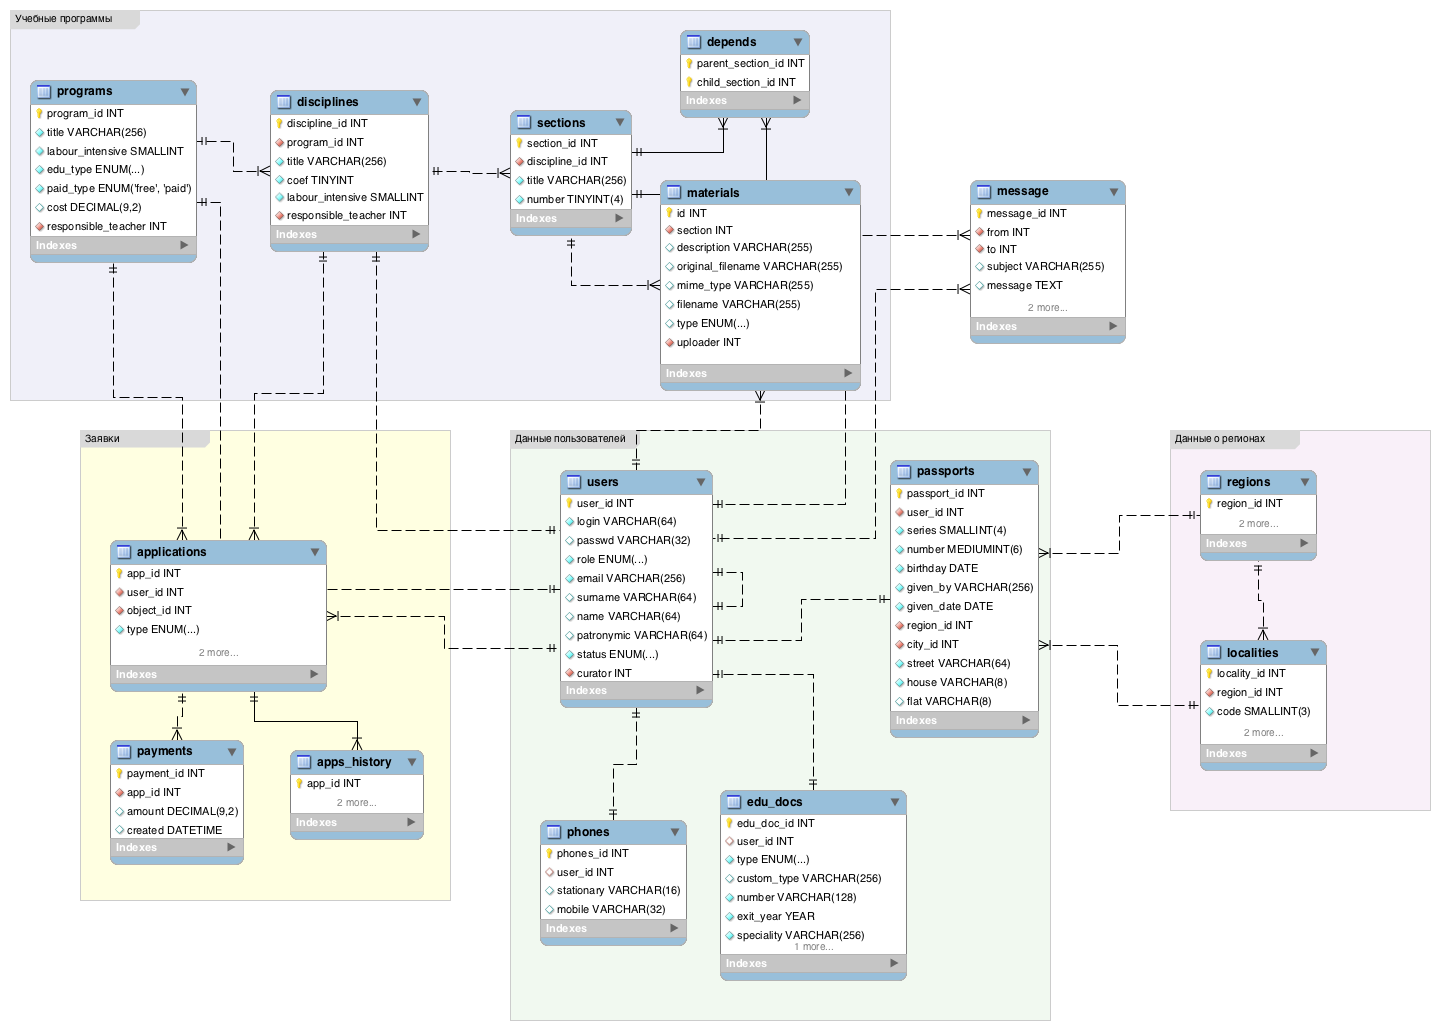
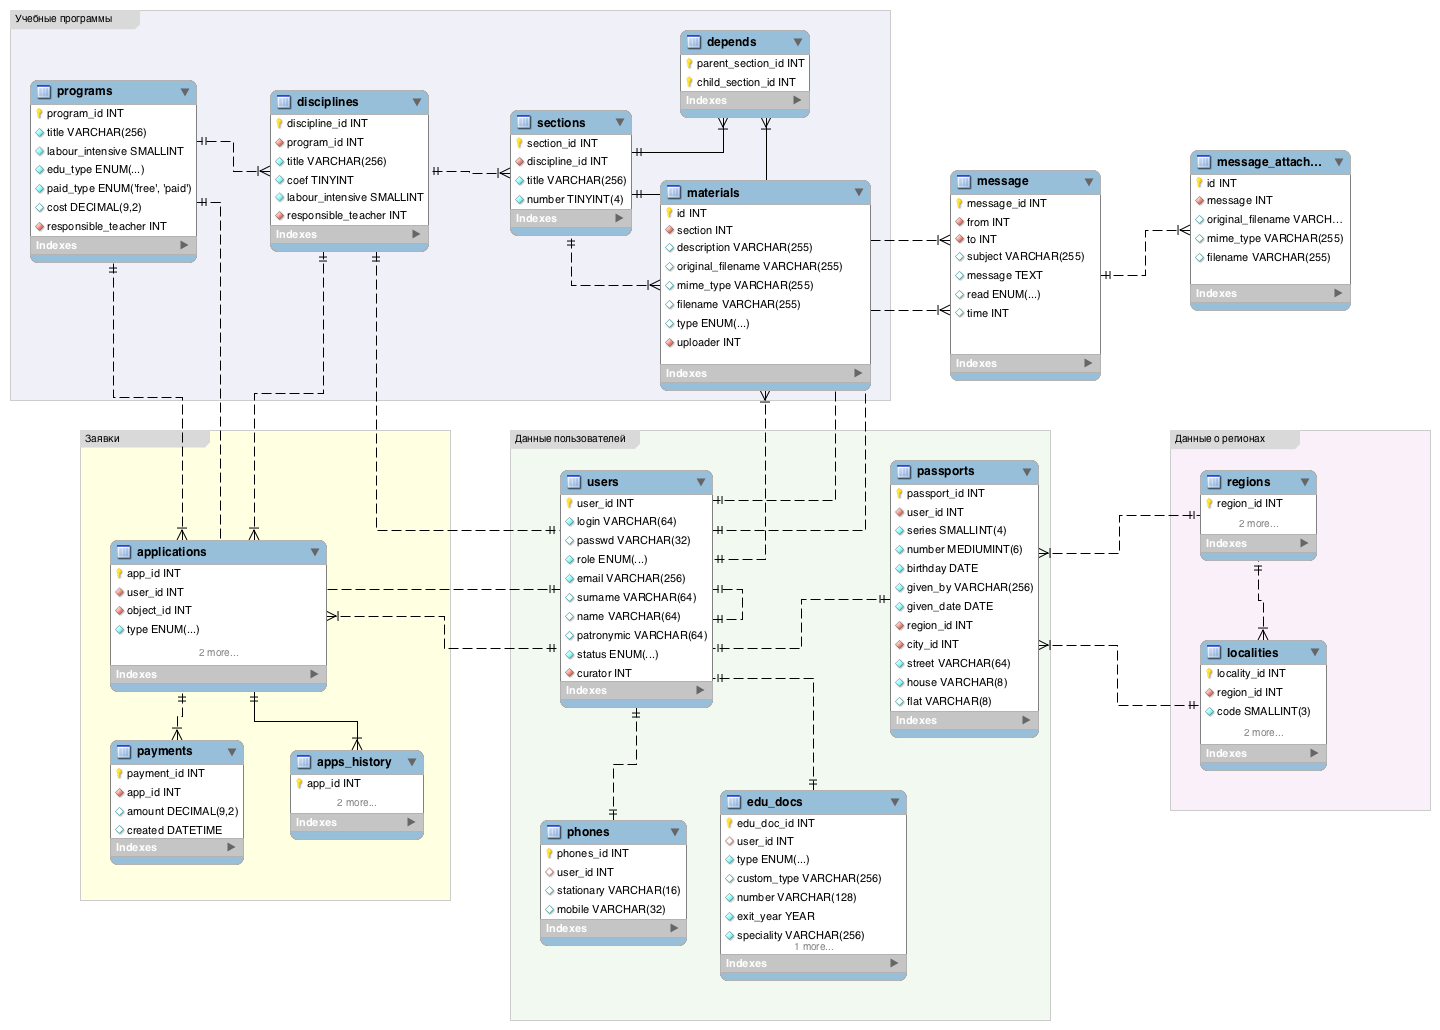
messages attachments
git-svn-id: http://subversion.assembla.com/svn/remote-edu/trunk@223 8be755f0-7b69-014b-b4a2-75d5e90fc6ab

diff --git a/private/app/Model/Messages.php b/private/app/Model/Messages.php
@@ -36,7 +36,13 @@
                 'message_id' => $messageId,
                 'user_id' => $this->userId,
             );
-            $this->prepare($sql)->execute($params);
+            
+            $stmt = $this->prepare($sql);
+            $stmt->execute($params);
+            
+            if ($stmt->rowCount()) {
+                $this->removeAttachments($messageId);                
+            }            
         }
 
         public function getInbox($page, &$messagesTotalNumber) {
@@ -128,6 +134,102 @@
             );
 
             $this->prepare($sql)->execute($params);
+            
+            return $this->lastInsertId();
+        }
+
+        public function addAttachments($message, $files) {
+            $storage = Resources::getInstance()->attachments_storage;
+            
+            $sql = 'INSERT INTO `message_attachment`(`message`,`original_filename`,`mime_type`,`filename`)
+                VALUES (:message, :original_filename, :mime_type, :filename)';
+            $stmt = $this->prepare($sql);
+            
+            foreach ($files['name'] as $i => $value) {
+                $filename = $storage->storeFile($files['tmp_name'][$i]);
+                $params = array(
+                    ':message' => $message,
+                    ':original_filename' => $files['name'][$i],
+                    ':mime_type' => $files['type'][$i],
+                    ':filename' => $filename,
+                );
+                
+                $stmt->execute($params);
+            }
+        }
+        
+        public function getAttachments($message) {
+            $sql = 'SELECT *
+                FROM `message_attachment`
+                WHERE `message`=:message';                
+            $params = array(
+                ':message' => $message,
+            );
+            
+            $stmt = $this->prepare($sql);
+            $stmt->execute($params);
+            
+            return $stmt->fetchAll(Db_Pdo::FETCH_ASSOC);
+        }
+        
+        public function removeAttachments($messageId) {
+            $attachments = $this->getAttachments($messageId);
+            $storage = Resources::getInstance()->attachments_storage;
+            
+            foreach ($attachments as $i => $attachment) {
+                $storage->removeFile($attachment['filename']);
+                                
+                $sql = 'DELETE FROM `message_attachment`
+                    WHERE `id`=:arrachment_id';                
+                $params = array(
+                    ':arrachment_id' => $attachment['id'],
+                );
+                
+                $this->prepare($sql)->execute($params);
+            }
+        }
+
+        public function getAttachment($attachmentId) {
+            $sql = 'SELECT `message`,`original_filename`,`filename`,`mime_type`
+                FROM `message_attachment`
+                WHERE `id`=:attachment_id';
+            $params = array(
+                ':attachment_id' => $attachmentId,
+            );
+            
+            $stmt = $this->prepare($sql);
+            $stmt->execute($params);            
+            $attachment = $stmt->fetchAll(Db_Pdo::FETCH_ASSOC);
+            
+            if (empty($attachment)) {
+                return FALSE;
+            }
+                        
+            $sql = 'SELECT `to`
+                FROM `message`
+                WHERE `message_id`=:message_id';                            
+            $params = array(
+                ':message_id' => $attachment[0]['message'],
+            );
+                        
+            $stmt = $this->prepare($sql);
+            $stmt->execute($params);
+            $message = $stmt->fetchAll(Db_Pdo::FETCH_ASSOC);
+            
+            $udata = (object)Model_User::create()->getAuth();
+            
+            if ($udata->user_id != $message[0]['to']) {
+                return FALSE;
+            }
+            
+            $storage = Resources::getInstance()->attachments_storage;
+            
+            header('Content-Disposition: attachment; filename="' . $attachment[0]['original_filename']) . '"';
+            header('Content-Type: ' . $attachment[0]['mime_type']);
+
+            echo $storage->getFileContent($attachment[0]['filename']);
+            
+            return TRUE;
         }
 
         public function getRecipientsList() {

diff --git a/private/app/Controller/Messages.php b/private/app/Controller/Messages.php
@@ -12,27 +12,28 @@
 
             if (count($args)) {
                 $form->setValue('recipient', $args[0]['to_id']);
-            }
+            }            
+        
             $this->set('form', $form);
             $method = $form->method();
 
             $messages = new Model_Messages();
             $recipients = $messages->getRecipientsList();
             $this->set('recipients', $recipients);
-
             $requestData = $request->$method;
 
             if (empty($requestData) || !$form->validate($request)) {
                 $this->render('messages/send');
             }
-
+                        
             /**
             * @todo Form_Abstract automatically processes values for all defined
             * fields to protect them from XSS.
-            */
-            $messages->sendMessage($requestData['recipient'], htmlspecialchars($requestData['subject']), htmlspecialchars($requestData['message']));
-            $this->flash('Сообщение отправлено',
-                         $links->get('messages.inbox'), 3);
+            */            
+                        
+            $messageId = $messages->sendMessage($requestData['recipient'], htmlspecialchars($requestData['subject']), htmlspecialchars($requestData['message']));
+            $messages->addAttachments($messageId, $_FILES['attachment']);
+            $this->flash('Сообщение отправлено', $links->get('messages.inbox'), 3);
         }
 
         public function action_inbox() {
@@ -74,8 +75,18 @@
                              $links->get('messages.inbox'), 3);
             }
 
+            $this->set('attachments', $messages->getAttachments($params['message_id']));
             $this->set('message', $message);
             $this->render('/messages/message');
+        }
+        
+        public function action_attachment($params) {
+            $messages = new Model_Messages();
+            
+            if (!$messages->getAttachment($params['attachment_id'])) {
+                $links = Resources::getInstance()->links;
+                $this->flash('Запрошено несуществующее вложение или у Вас недостаточно прав для загрузки вложения', $links->get('messages.inbox'), 3);
+            }
         }
     }
 ?>

diff --git a/private/routes.php b/private/routes.php
@@ -168,6 +168,9 @@
             /* Чтение сообщения */
             array('/messages/read/([0-9]+)', array('message_id'), 'messages', 'message', 'messages.read', Mvc_Router::ROUTE_REGEX),
 
+            /* Получение вложения сообщения */
+            array('/messages/attachment/([0-9]+)', array('attachment_id'), 'messages', 'attachment', 'messages.attachment', Mvc_Router::ROUTE_REGEX),
+
             /* Удаление выбранного сообщения */
             array('/messages/remove', 'messages', 'remove', 'messages.remove', Mvc_Router::ROUTE_STATIC),
 

diff --git a/private/app/Controller/Educational/Materials.php b/private/app/Controller/Educational/Materials.php
@@ -149,8 +149,8 @@
         }
 
         public function action_get_material ($params) {
-            $educationalMaterials = Model_Educational_Materials::create ();
-            $educationalMaterials->getMaterial ($params['material_id']);
+            $educationalMaterials = Model_Educational_Materials::create();
+            $educationalMaterials->getMaterial($params['material_id']);
         }
 
         /**

diff --git a/private/app/Resources.php b/private/app/Resources.php
@@ -110,6 +110,14 @@
             
             return $links;
         }
+        
+        protected function get_attachments_storage() {
+            $config = $this->_config['storage'];
+            
+            $storage = new Storage($config['messages_attachments']);
+            
+            return $storage;
+        }
     }
 
 ?>

diff --git a/public/index.php b/public/index.php
@@ -1,5 +1,4 @@
 <?php
-
     /* $Id$ */
 
     require_once '../private/init.php';
@@ -12,5 +11,4 @@
 
     /* Обрабатываем запрос */
     $dispatcher->dispatch($request);
-
 ?>
